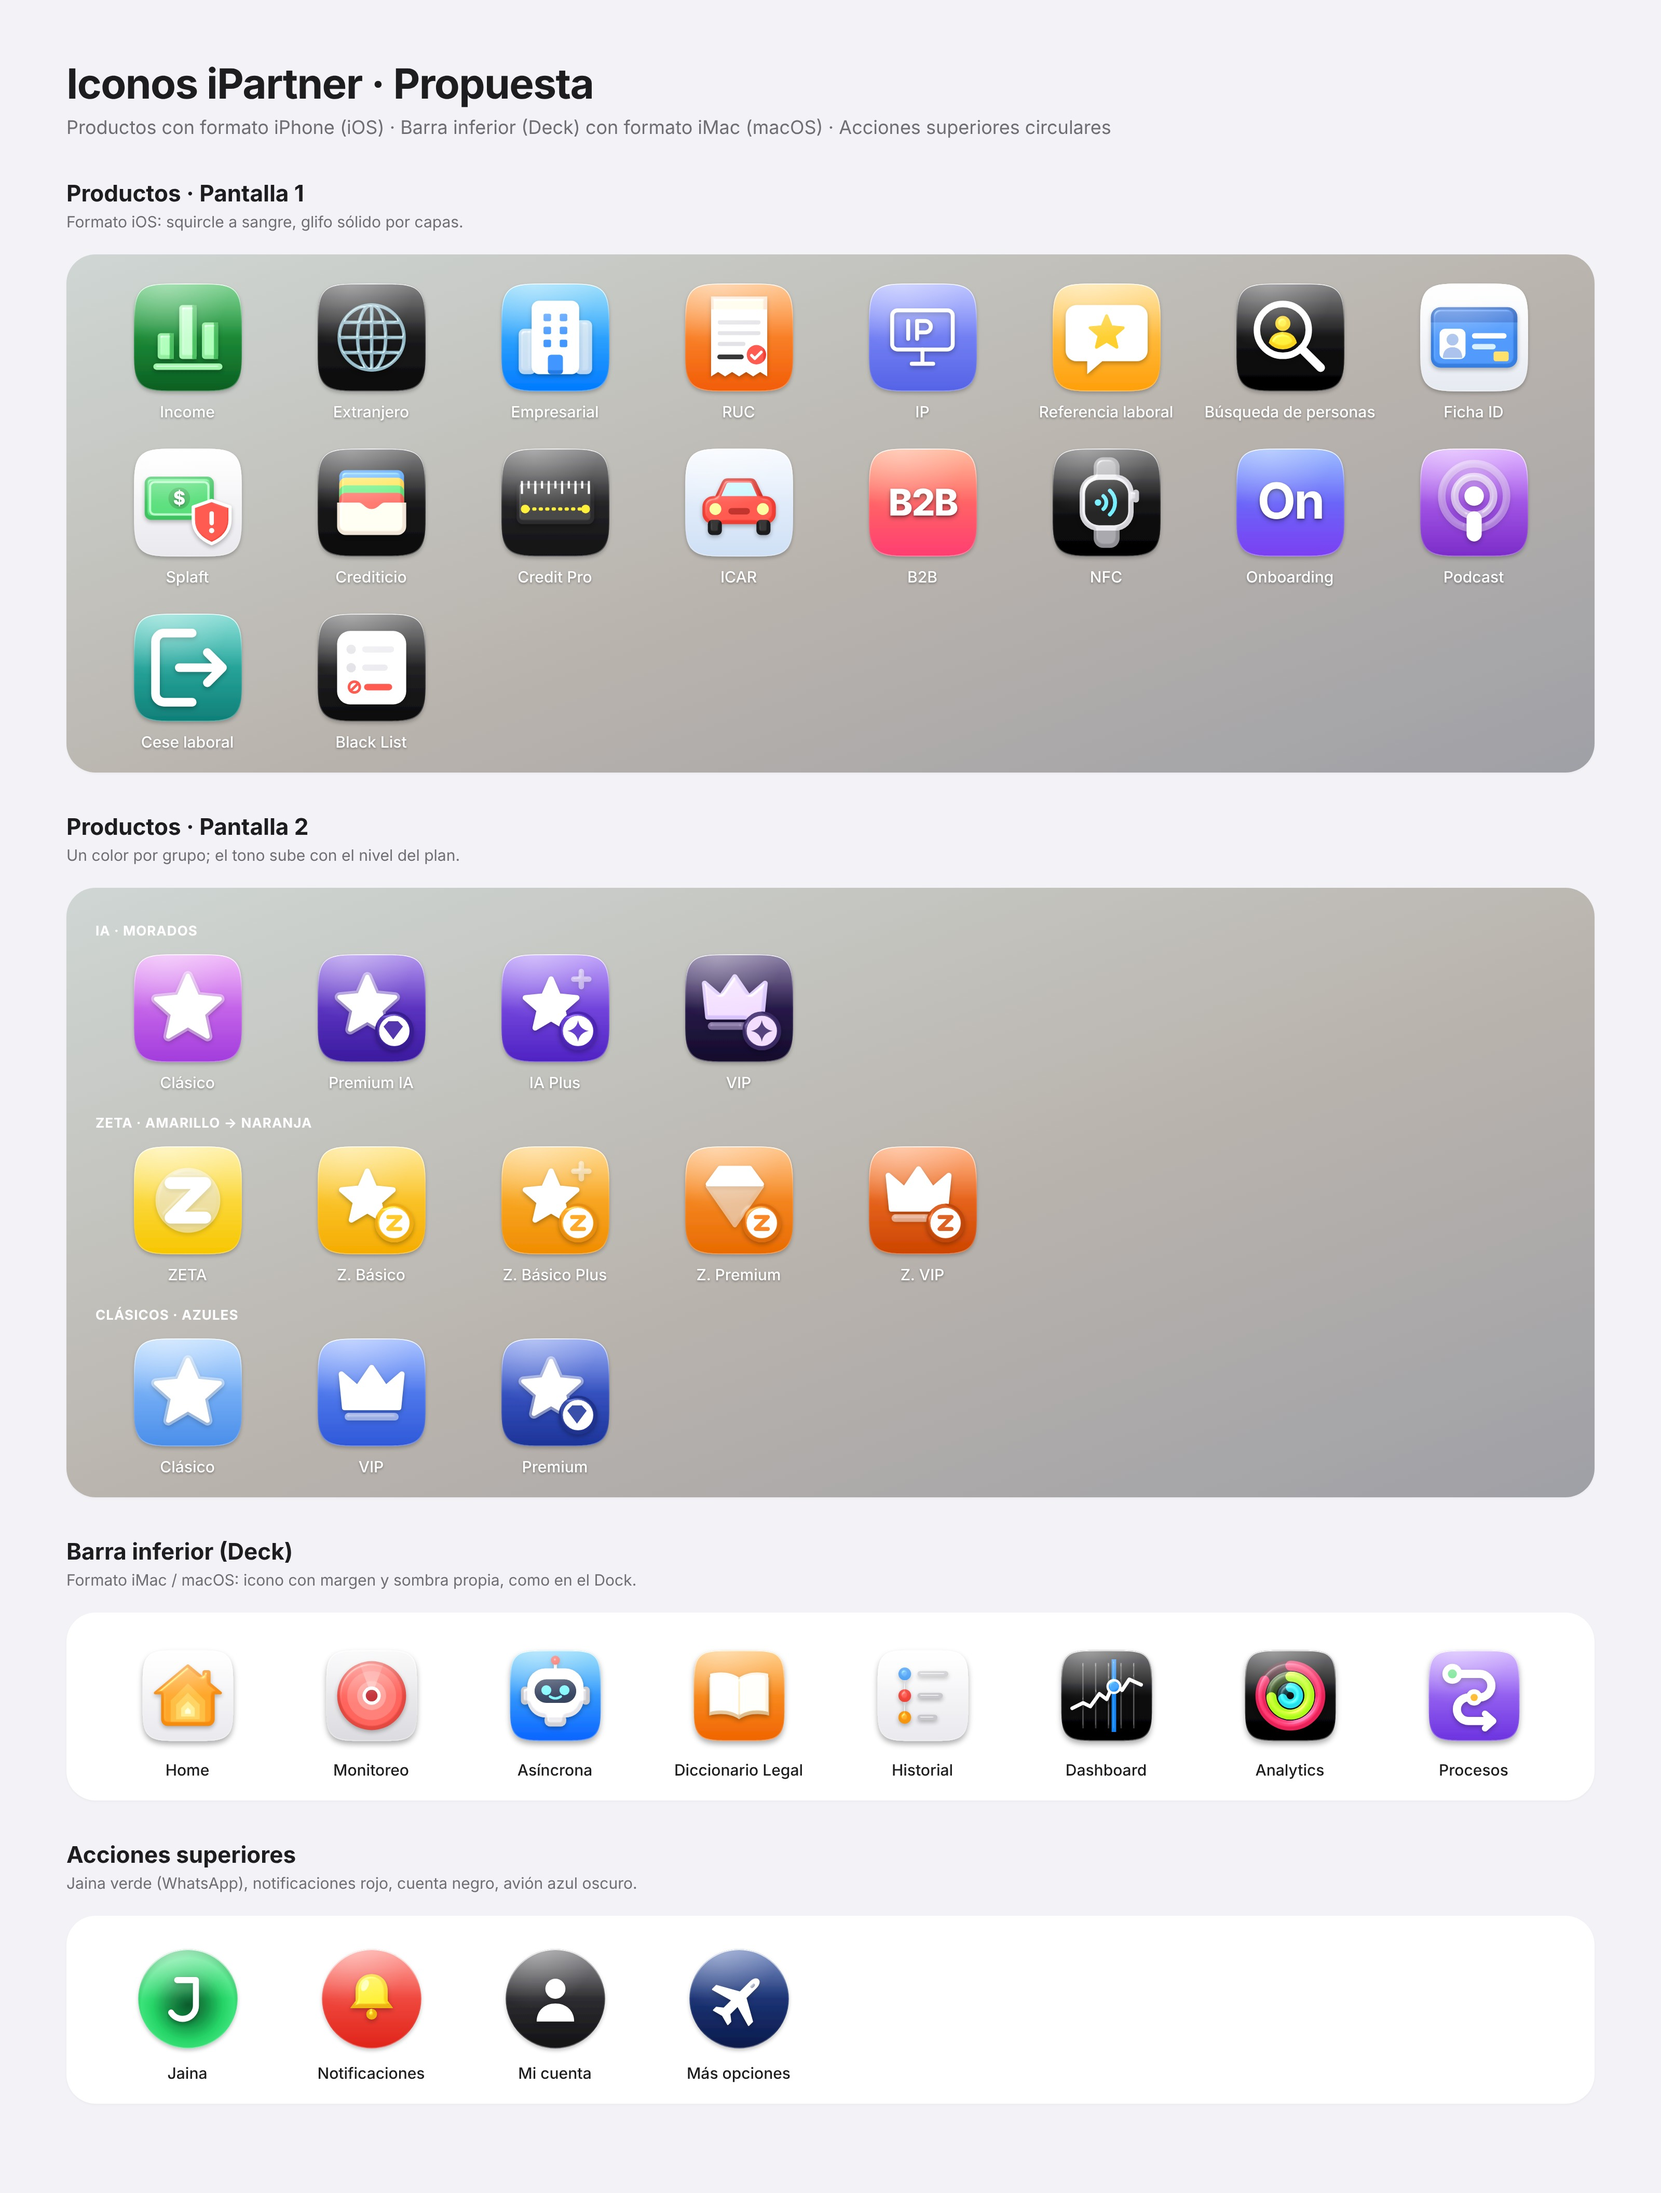
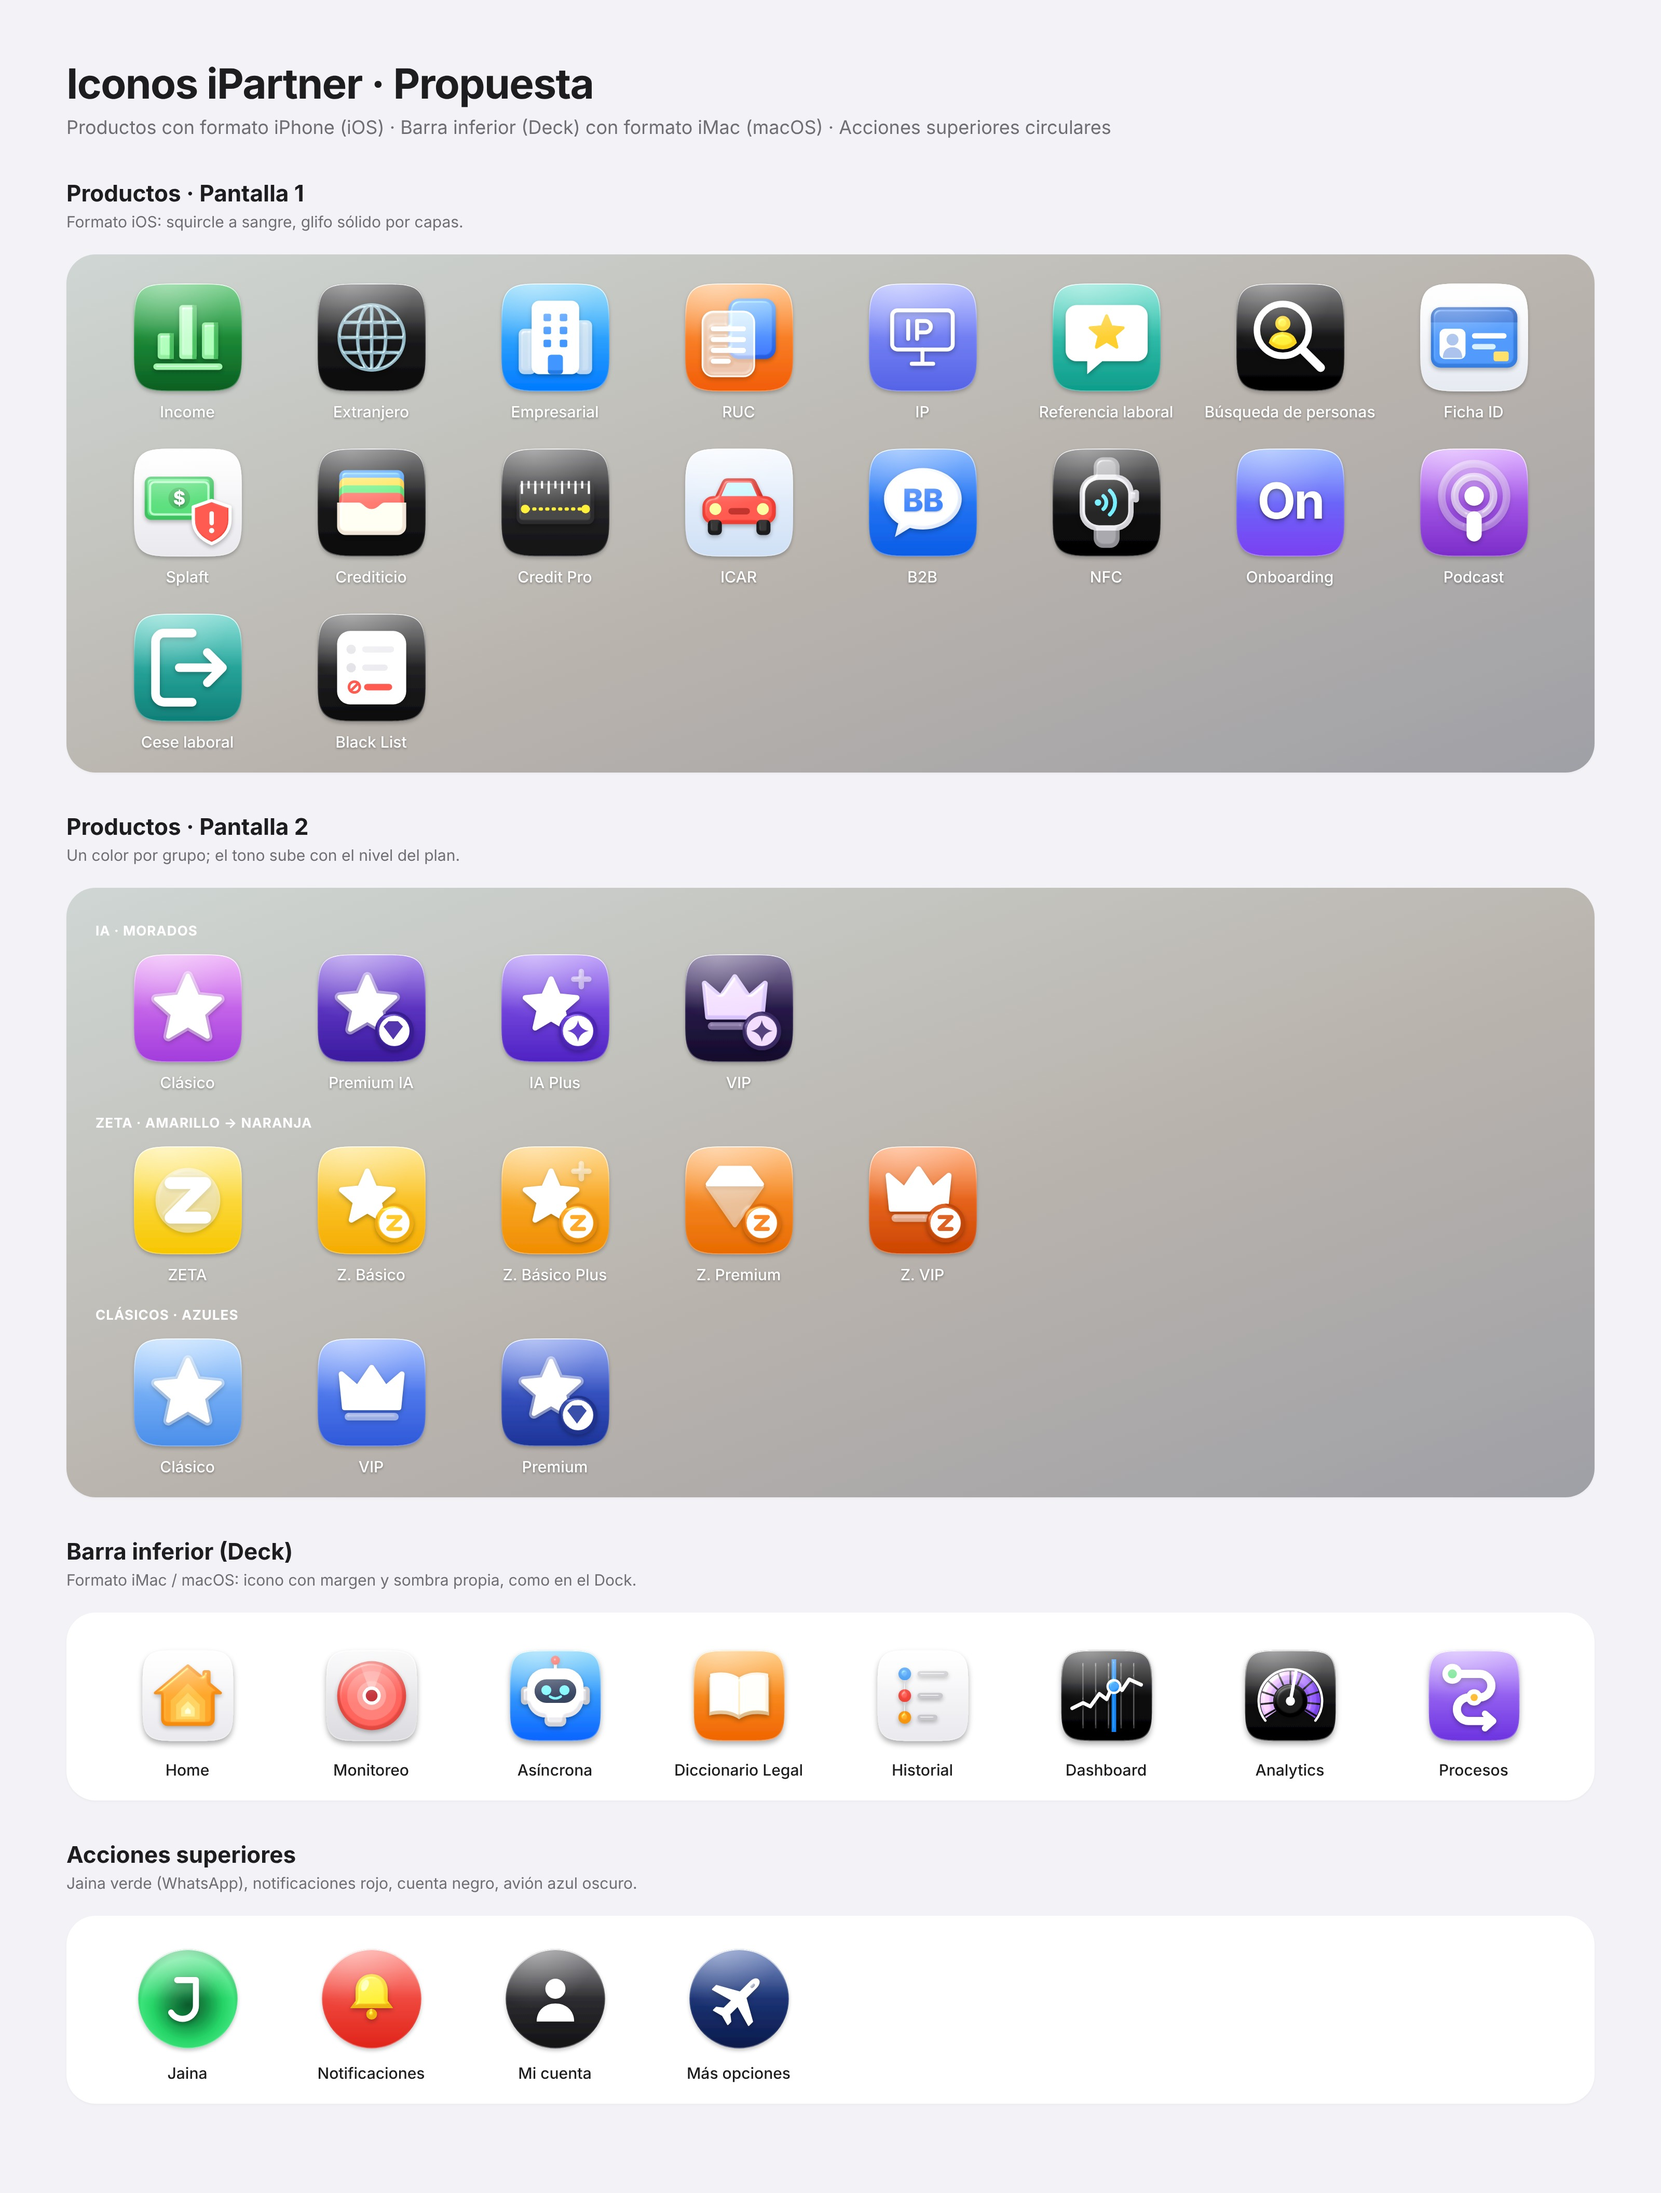
Iconos ronda 7: analytics velocímetro lavanda, RUC documentos cristal, B2B chat BB, referencia laboral turquesa
Claude-Session: https://claude.ai/code/session_013FvKEZxsCiBjp9t4yEHMvN

diff --git a/iconos/hoja-iconos.html b/iconos/hoja-iconos.html
@@ -131,6 +131,12 @@ Object.assign(G,{
  'cese-laboral':`<path d="M54 18H28a8 8 0 0 0-8 8v48a8 8 0 0 0 8 8h26" fill="none" stroke="#fff" stroke-width="8" stroke-linecap="round"/><path d="M42 50h40M68 36l14 14-14 14" fill="none" stroke="#fff" stroke-width="8" stroke-linecap="round" stroke-linejoin="round"/>`,
  'Procesos':`<path d="M30 26h26a13 13 0 0 1 0 26H44a13 13 0 0 0 0 26h22" fill="none" stroke="#fff" stroke-width="9" stroke-linecap="round" stroke-linejoin="round"/><path d="M62 70l9 8-9 8" fill="none" stroke="#fff" stroke-width="7" stroke-linecap="round" stroke-linejoin="round"/><circle cx="26" cy="26" r="11" fill="#fff"/><circle cx="26" cy="26" r="5" fill="#34C759"/><circle cx="50" cy="52" r="9" fill="#fff"/><circle cx="50" cy="52" r="4" fill="#FF9F0A"/>`,
 });
+// Ronda 7
+Object.assign(G,{
+ 'Analytics':`<defs><linearGradient id="an2" x1="0" y1="0" x2="1" y2="0"><stop offset="0" stop-color="#E7B8FF"/><stop offset=".55" stop-color="#B57BFF"/><stop offset="1" stop-color="#7B3FF2"/></linearGradient></defs><path d="M28.70 70.91A26 26 0 1 1 71.30 70.91" fill="none" stroke="url(#an2)" stroke-width="14"/><line x1="33.5" y1="65.5" x2="21.4" y2="72.5" stroke="#111" stroke-width="2"/><line x1="31.1" y1="58.0" x2="17.2" y2="59.4" stroke="#111" stroke-width="2"/><line x1="31.9" y1="50.1" x2="18.6" y2="45.8" stroke="#111" stroke-width="2"/><line x1="35.9" y1="43.3" x2="25.5" y2="33.9" stroke="#111" stroke-width="2"/><line x1="42.3" y1="38.6" x2="36.6" y2="25.9" stroke="#111" stroke-width="2"/><line x1="50.0" y1="37.0" x2="50.0" y2="23.0" stroke="#111" stroke-width="2"/><line x1="57.7" y1="38.6" x2="63.4" y2="25.9" stroke="#111" stroke-width="2"/><line x1="64.1" y1="43.3" x2="74.5" y2="33.9" stroke="#111" stroke-width="2"/><line x1="68.1" y1="50.1" x2="81.4" y2="45.8" stroke="#111" stroke-width="2"/><line x1="68.9" y1="58.0" x2="82.8" y2="59.4" stroke="#111" stroke-width="2"/><line x1="66.5" y1="65.5" x2="78.6" y2="72.5" stroke="#111" stroke-width="2"/><path d="M22.42 77.55A35 35 0 1 1 77.58 77.55" fill="none" stroke="#fff" stroke-width="2.6" stroke-linecap="round"/><circle cx="50" cy="56" r="18" fill="#000"/><path d="M50 56L56 24" stroke="#fff" stroke-width="3.6" stroke-linecap="round"/><circle cx="50" cy="56" r="5" fill="#fff"/>`,
+ 'ruc':`<defs><linearGradient id="ru-b" x1="0" y1="0" x2="0" y2="1"><stop offset="0" stop-color="#4FA3FF"/><stop offset="1" stop-color="#1E5BF0"/></linearGradient></defs><rect x="40" y="14" width="44" height="56" rx="10" fill="url(#ru-b)"/><rect x="16" y="26" width="48" height="60" rx="10" fill="#fff" fill-opacity=".6" stroke="#fff" stroke-opacity=".95" stroke-width="1.5"/><g stroke="#fff" stroke-width="4.5" stroke-linecap="round"><path d="M26 42h28M26 52h28M26 62h28M26 72h14"/></g>`,
+ 'b2b':`<defs><radialGradient id="bb-b" cx=".35" cy=".3" r=".8"><stop offset="0" stop-color="#FFFFFF"/><stop offset=".7" stop-color="#EEF3FF"/><stop offset="1" stop-color="#C9D8F5"/></radialGradient></defs><path d="M50 18c19.9 0 36 12.8 36 28.5S69.9 75 50 75c-4.2 0-8.2-.6-12-1.6L24 82l3.2-12.6C19 64.3 14 56 14 46.5 14 30.8 30.1 18 50 18Z" fill="url(#bb-b)"/><text x="50" y="58" text-anchor="middle" font-family="-apple-system,BlinkMacSystemFont,SF Pro Display,Inter,sans-serif" font-weight="800" font-size="29" letter-spacing="-.5" fill="#1E6BF0">BB</text>`,
+});
 // Colores: [fondo1, fondo2, glifo opcional (fondo blanco/negro/crema), glifo en oscuro opcional]
 const C={income:['#55DB6C','#1A9A3A'],extranjero:['#3FE3D1','#06A39C'],proveedor:['#9AACBF','#4B5E74',,'#B9C8D8'],ruc:['#FFA54A','#FF5F00'],
  ip:['#8C96FF','#4450E0'],'referencia-laboral':['#B8E44C','#62A812'],'busqueda-personas':['#62D4FF','#0093DD'],'ficha-id':['#FFFFFF','#E6EAF1','#2E6BF0'],
@@ -148,6 +154,7 @@ Object.assign(C,{'Historial':['#2C2C2E','#000000'],'proveedor':['#F5F5F7','#D9D9
 Object.assign(C,{'cese-laboral':['#97A3B8','#5B6578'],'black-list':['#3A3A3C','#0B0B0C'],'b2b':['#5AC8FA','#0A6CFF'],'busqueda-personas':['#F2F2F7','#C9C9CF']});
 Object.assign(C,{'onboarding':['#5B8CFF','#7B3FF2'],'busqueda-personas':['#2C2C2E','#000000'],'Monitoreo':['#F5F5F7','#DCDCE0'],'extranjero':['#2C2C2E','#0A0A0A'],'referencia-laboral':['#2A2F6B','#141836'],'cese-laboral':['#FFFFFF','#E9EEF5'],'proveedor':['#FFFFFF','#E8F2EC'],'b2b':['#1F2A55','#0B1230'],'Historial':['#FFFFFF','#E9E9EE'],'Analytics':['#1C1C1E','#000000']});
 Object.assign(C,{'proveedor':['#5AC8FA','#007AFF'],'b2b':['#FF8A5B','#FF3D71'],'referencia-laboral':['#FFD36B','#FF9F0A'],'cese-laboral':['#3FC8BC','#0F7F77'],'Procesos':['#B98BFF','#6C33E0']});
+Object.assign(C,{'Analytics':['#2A2A2C','#000000'],'b2b':['#3D8BFF','#0A5CE6'],'referencia-laboral':['#4FD8C4','#0E9C8A']});
 const TOP={btnJaina:['#5BEA8A','#1FB855',`<path class="ps" stroke-width="9" d="M34 22h28v38a20 20 0 0 1-37 10.5"/>`],
  btnNotif:['#FF6B61','#E0241A',`<path class="p" d="M50 14c-14 0-24 10.5-24 25v14l-8 11h64l-8-11V39c0-14.5-10-25-24-25Z"/><path class="s" d="M40 70a10 10 0 0 0 20 0Z"/><circle class="p" cx="50" cy="12" r="4"/>`],
  btnUser:['#4A4A4F','#111113',`<circle class="p" cx="50" cy="35" r="15"/><path class="p" d="M22 84c0-17 12.5-27 28-27s28 10 28 27Z"/>`],

diff --git a/iconos/propuesta-iconos-plataforma.html b/iconos/propuesta-iconos-plataforma.html
@@ -2062,6 +2062,12 @@ Object.assign(G,{
  'cese-laboral':`<path d="M54 18H28a8 8 0 0 0-8 8v48a8 8 0 0 0 8 8h26" fill="none" stroke="#fff" stroke-width="8" stroke-linecap="round"/><path d="M42 50h40M68 36l14 14-14 14" fill="none" stroke="#fff" stroke-width="8" stroke-linecap="round" stroke-linejoin="round"/>`,
  'Procesos':`<path d="M30 26h26a13 13 0 0 1 0 26H44a13 13 0 0 0 0 26h22" fill="none" stroke="#fff" stroke-width="9" stroke-linecap="round" stroke-linejoin="round"/><path d="M62 70l9 8-9 8" fill="none" stroke="#fff" stroke-width="7" stroke-linecap="round" stroke-linejoin="round"/><circle cx="26" cy="26" r="11" fill="#fff"/><circle cx="26" cy="26" r="5" fill="#34C759"/><circle cx="50" cy="52" r="9" fill="#fff"/><circle cx="50" cy="52" r="4" fill="#FF9F0A"/>`,
 });
+// Ronda 7
+Object.assign(G,{
+ 'Analytics':`<defs><linearGradient id="an2" x1="0" y1="0" x2="1" y2="0"><stop offset="0" stop-color="#E7B8FF"/><stop offset=".55" stop-color="#B57BFF"/><stop offset="1" stop-color="#7B3FF2"/></linearGradient></defs><path d="M28.70 70.91A26 26 0 1 1 71.30 70.91" fill="none" stroke="url(#an2)" stroke-width="14"/><line x1="33.5" y1="65.5" x2="21.4" y2="72.5" stroke="#111" stroke-width="2"/><line x1="31.1" y1="58.0" x2="17.2" y2="59.4" stroke="#111" stroke-width="2"/><line x1="31.9" y1="50.1" x2="18.6" y2="45.8" stroke="#111" stroke-width="2"/><line x1="35.9" y1="43.3" x2="25.5" y2="33.9" stroke="#111" stroke-width="2"/><line x1="42.3" y1="38.6" x2="36.6" y2="25.9" stroke="#111" stroke-width="2"/><line x1="50.0" y1="37.0" x2="50.0" y2="23.0" stroke="#111" stroke-width="2"/><line x1="57.7" y1="38.6" x2="63.4" y2="25.9" stroke="#111" stroke-width="2"/><line x1="64.1" y1="43.3" x2="74.5" y2="33.9" stroke="#111" stroke-width="2"/><line x1="68.1" y1="50.1" x2="81.4" y2="45.8" stroke="#111" stroke-width="2"/><line x1="68.9" y1="58.0" x2="82.8" y2="59.4" stroke="#111" stroke-width="2"/><line x1="66.5" y1="65.5" x2="78.6" y2="72.5" stroke="#111" stroke-width="2"/><path d="M22.42 77.55A35 35 0 1 1 77.58 77.55" fill="none" stroke="#fff" stroke-width="2.6" stroke-linecap="round"/><circle cx="50" cy="56" r="18" fill="#000"/><path d="M50 56L56 24" stroke="#fff" stroke-width="3.6" stroke-linecap="round"/><circle cx="50" cy="56" r="5" fill="#fff"/>`,
+ 'ruc':`<defs><linearGradient id="ru-b" x1="0" y1="0" x2="0" y2="1"><stop offset="0" stop-color="#4FA3FF"/><stop offset="1" stop-color="#1E5BF0"/></linearGradient></defs><rect x="40" y="14" width="44" height="56" rx="10" fill="url(#ru-b)"/><rect x="16" y="26" width="48" height="60" rx="10" fill="#fff" fill-opacity=".6" stroke="#fff" stroke-opacity=".95" stroke-width="1.5"/><g stroke="#fff" stroke-width="4.5" stroke-linecap="round"><path d="M26 42h28M26 52h28M26 62h28M26 72h14"/></g>`,
+ 'b2b':`<defs><radialGradient id="bb-b" cx=".35" cy=".3" r=".8"><stop offset="0" stop-color="#FFFFFF"/><stop offset=".7" stop-color="#EEF3FF"/><stop offset="1" stop-color="#C9D8F5"/></radialGradient></defs><path d="M50 18c19.9 0 36 12.8 36 28.5S69.9 75 50 75c-4.2 0-8.2-.6-12-1.6L24 82l3.2-12.6C19 64.3 14 56 14 46.5 14 30.8 30.1 18 50 18Z" fill="url(#bb-b)"/><text x="50" y="58" text-anchor="middle" font-family="-apple-system,BlinkMacSystemFont,SF Pro Display,Inter,sans-serif" font-weight="800" font-size="29" letter-spacing="-.5" fill="#1E6BF0">BB</text>`,
+});
 // Colores: [fondo1, fondo2, glifo opcional (fondo blanco/negro/crema), glifo en oscuro opcional]
 const C={income:['#55DB6C','#1A9A3A'],extranjero:['#3FE3D1','#06A39C'],proveedor:['#9AACBF','#4B5E74',,'#B9C8D8'],ruc:['#FFA54A','#FF5F00'],
  ip:['#8C96FF','#4450E0'],'referencia-laboral':['#B8E44C','#62A812'],'busqueda-personas':['#62D4FF','#0093DD'],'ficha-id':['#FFFFFF','#E6EAF1','#2E6BF0'],
@@ -2078,6 +2084,7 @@ Object.assign(C,{'Historial':['#2C2C2E','#000000'],'proveedor':['#F5F5F7','#D9D9
 Object.assign(C,{'cese-laboral':['#97A3B8','#5B6578'],'black-list':['#3A3A3C','#0B0B0C'],'b2b':['#5AC8FA','#0A6CFF'],'busqueda-personas':['#F2F2F7','#C9C9CF']});
 Object.assign(C,{'onboarding':['#5B8CFF','#7B3FF2'],'busqueda-personas':['#2C2C2E','#000000'],'Monitoreo':['#F5F5F7','#DCDCE0'],'extranjero':['#2C2C2E','#0A0A0A'],'referencia-laboral':['#2A2F6B','#141836'],'cese-laboral':['#FFFFFF','#E9EEF5'],'proveedor':['#FFFFFF','#E8F2EC'],'b2b':['#1F2A55','#0B1230'],'Historial':['#FFFFFF','#E9E9EE'],'Analytics':['#1C1C1E','#000000']});
 Object.assign(C,{'proveedor':['#5AC8FA','#007AFF'],'b2b':['#FF8A5B','#FF3D71'],'referencia-laboral':['#FFD36B','#FF9F0A'],'cese-laboral':['#3FC8BC','#0F7F77'],'Procesos':['#B98BFF','#6C33E0']});
+Object.assign(C,{'Analytics':['#2A2A2C','#000000'],'b2b':['#3D8BFF','#0A5CE6'],'referencia-laboral':['#4FD8C4','#0E9C8A']});
 const items=[...document.querySelectorAll('.chip-app')].map(b=>({k:b.dataset.id,el:b.querySelector('.chip-ico')}))
  .concat([...document.querySelectorAll('nav .nav-item')].map(b=>({k:b.getAttribute('aria-label'),el:b.querySelector('.nav-chip')})));
 items.forEach(it=>{if(!it.el)return;it.orig=it.el.innerHTML;const c=C[it.k];if(!c)return;
